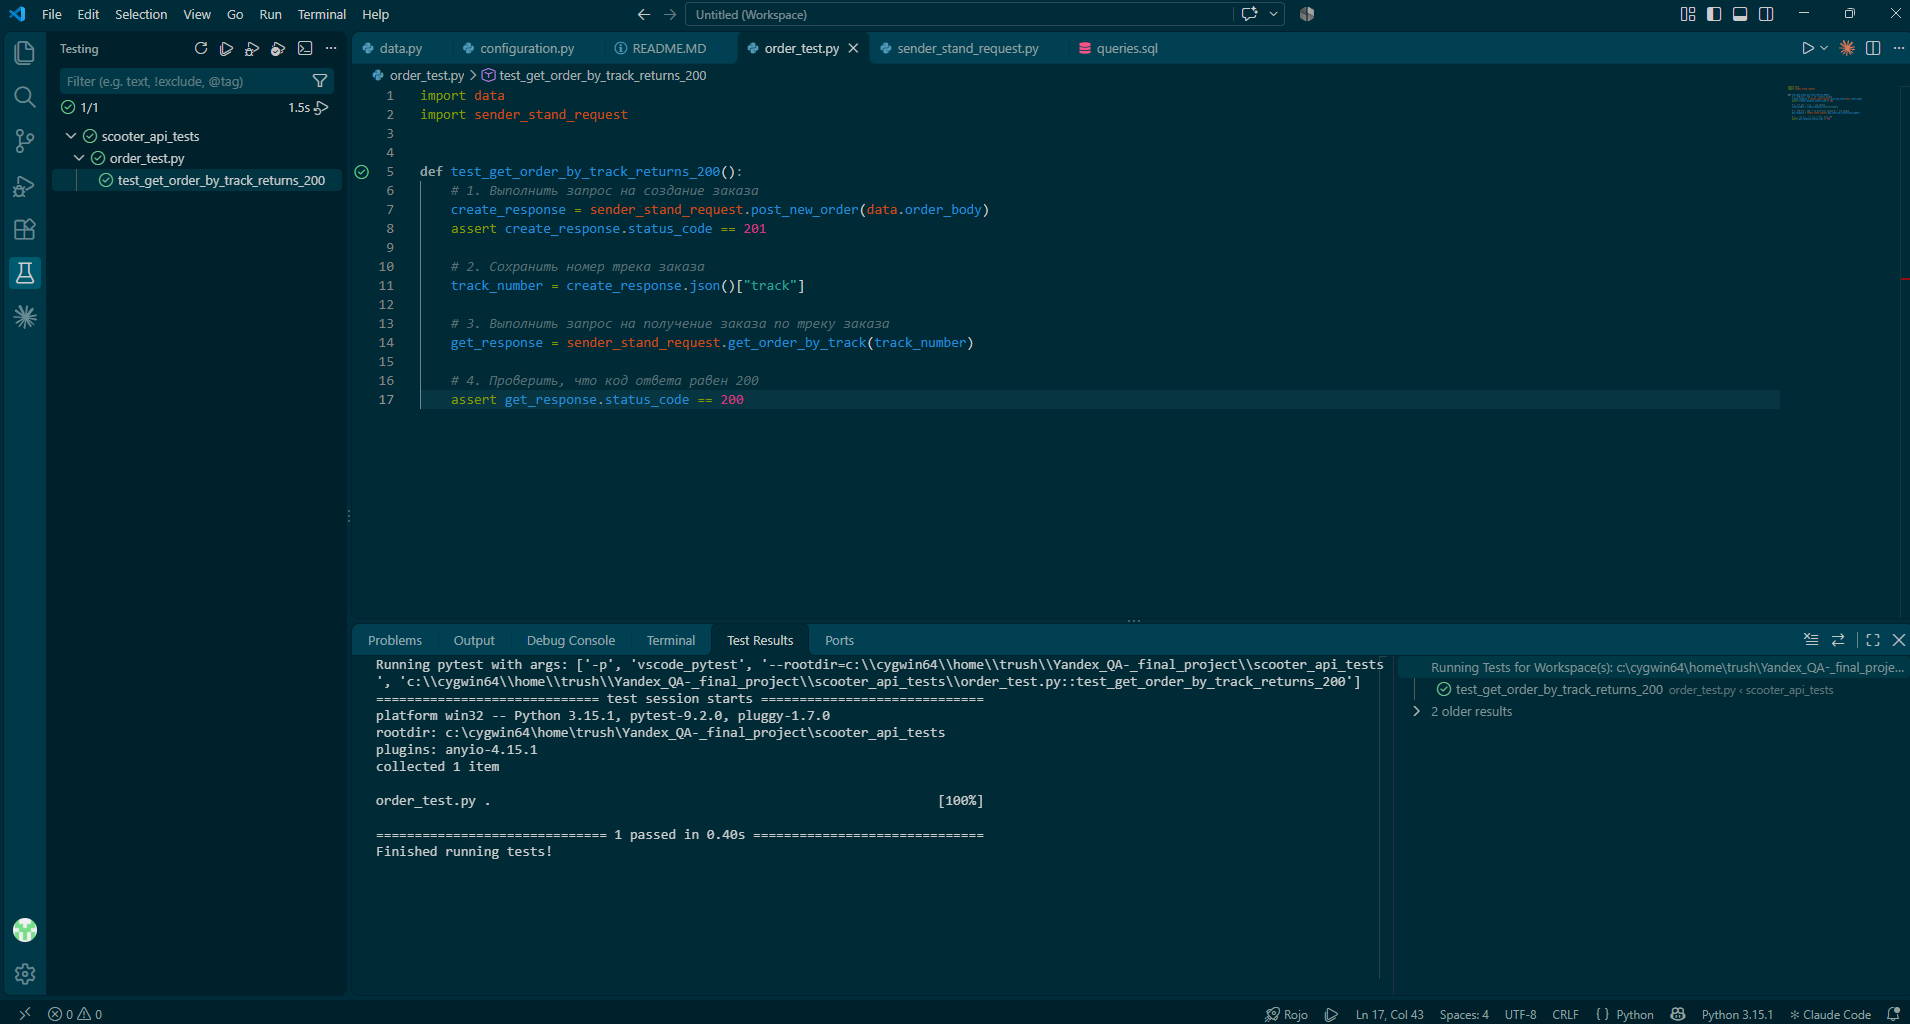
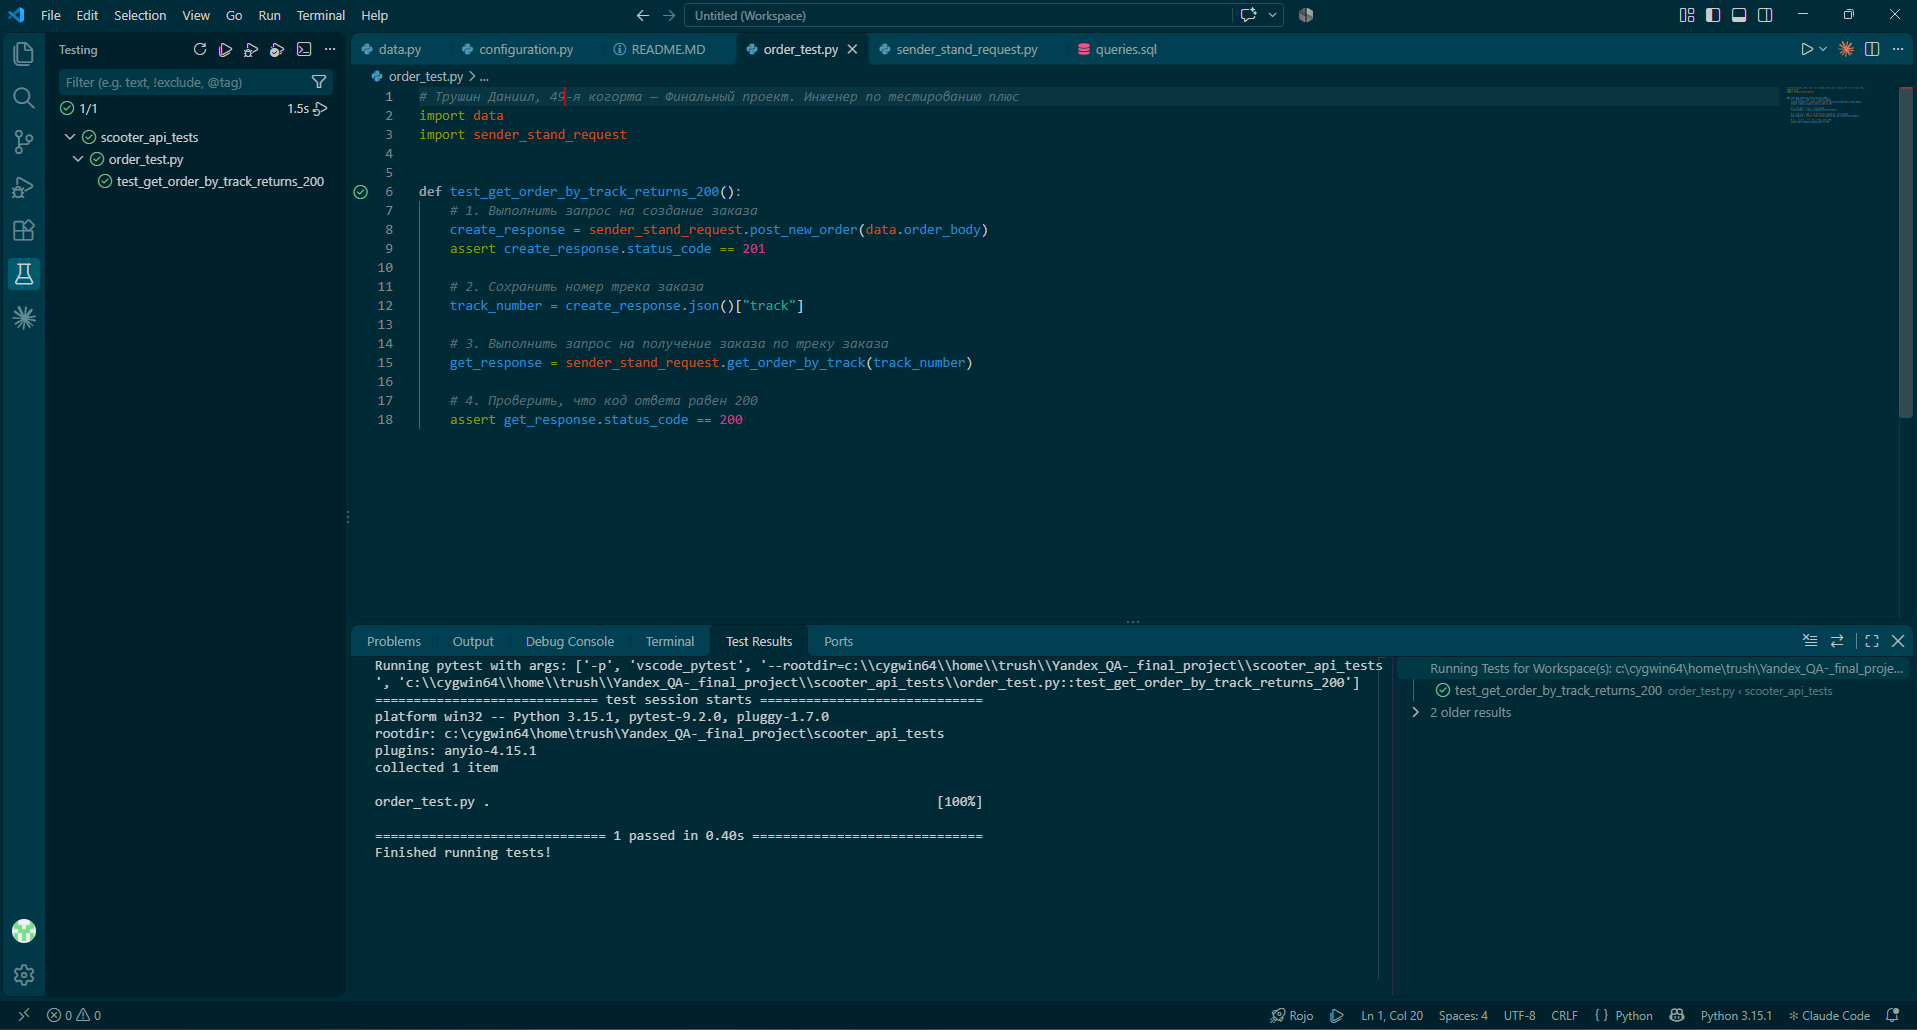
Добавлен скриншот прохождения автотеста

diff --git a/scooter_api_tests/order_test.py b/scooter_api_tests/order_test.py
@@ -1,3 +1,4 @@
+# Трушин Даниил, 49-я когорта — Финальный проект. Инженер по тестированию плюс
 import data
 import sender_stand_request
 
